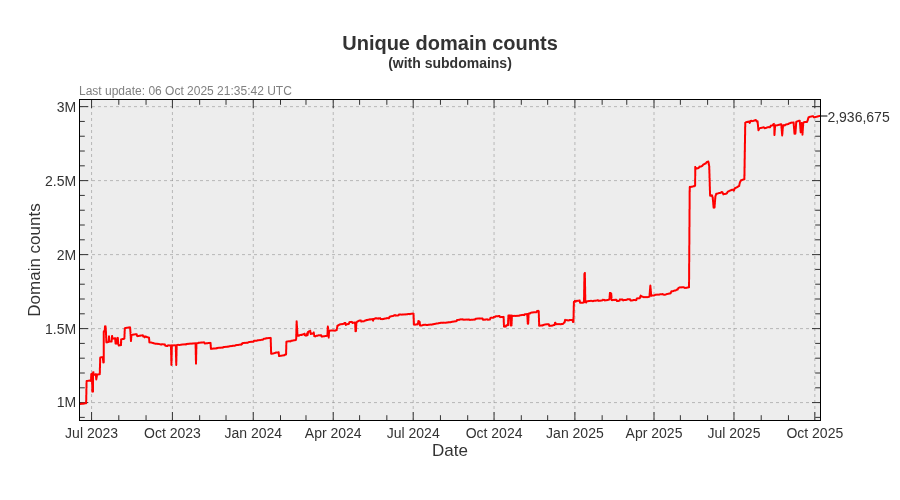
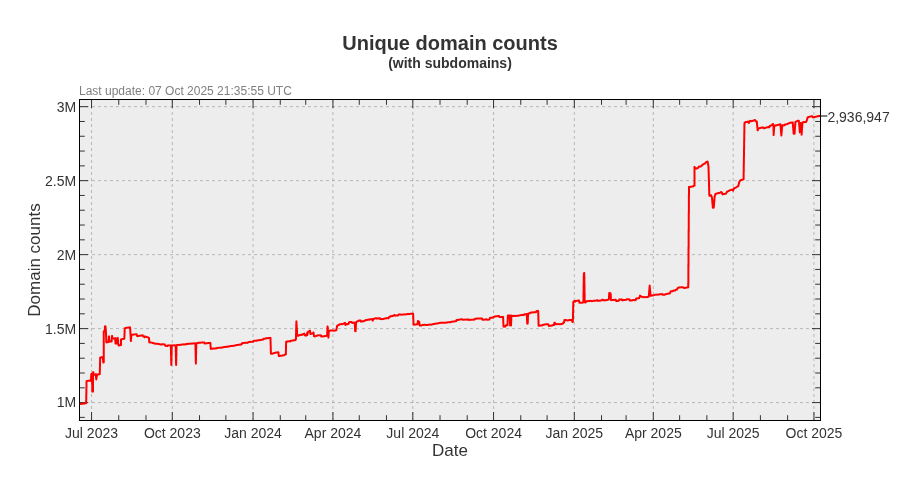
Update pages

diff --git a/README.md b/README.md
@@ -3,22 +3,22 @@ A blocklist file for blocking ads, trackers and malware domains.
 
[1 lines of base64/hex data omitted]
 
-- Unique domains: 2,936,675
-- Without subdomains: 2,252,590
-- Last update: 06 Oct 2025 21:35:42 UTC
-- Version: 2025.10.06.01
+- Unique domains: 2,936,947
+- Without subdomains: 2,252,837
+- Last update: 07 Oct 2025 21:35:55 UTC
+- Version: 2025.10.07.01
 
 
 ### Downloads:
 
 | Format             | Domain count      | Download Link |
 |:------------------ | -----------------:|:-------------:|
-| *Adblock Plus*     | 2,252,590 | [Download](https://dl.cenk.app/bad-hosts/bad-hosts-abp) |
-| *Wildcard domains* | 2,252,590 | [Download](https://dl.cenk.app/bad-hosts/bad-hosts-wildcard) |
-| *dnsmasq*          | 2,252,590 | [Download](https://dl.cenk.app/bad-hosts/bad-hosts-dnsmasq) |
-| *hosts*            | 2,936,675 | [Download](https://dl.cenk.app/bad-hosts/hosts) |
-| *hosts (ipv6)*     | 2,936,675 | [Download](https://dl.cenk.app/bad-hosts/hosts-ipv6) |
-| *Plain domains*    | 2,936,675 | [Download](https://dl.cenk.app/bad-hosts/bad-hosts-domains) |
+| *Adblock Plus*     | 2,252,837 | [Download](https://dl.cenk.app/bad-hosts/bad-hosts-abp) |
+| *Wildcard domains* | 2,252,837 | [Download](https://dl.cenk.app/bad-hosts/bad-hosts-wildcard) |
+| *dnsmasq*          | 2,252,837 | [Download](https://dl.cenk.app/bad-hosts/bad-hosts-dnsmasq) |
+| *hosts*            | 2,936,947 | [Download](https://dl.cenk.app/bad-hosts/hosts) |
+| *hosts (ipv6)*     | 2,936,947 | [Download](https://dl.cenk.app/bad-hosts/hosts-ipv6) |
+| *Plain domains*    | 2,936,947 | [Download](https://dl.cenk.app/bad-hosts/bad-hosts-domains) |
 
 ### Domain count history
 #### With subdomains
